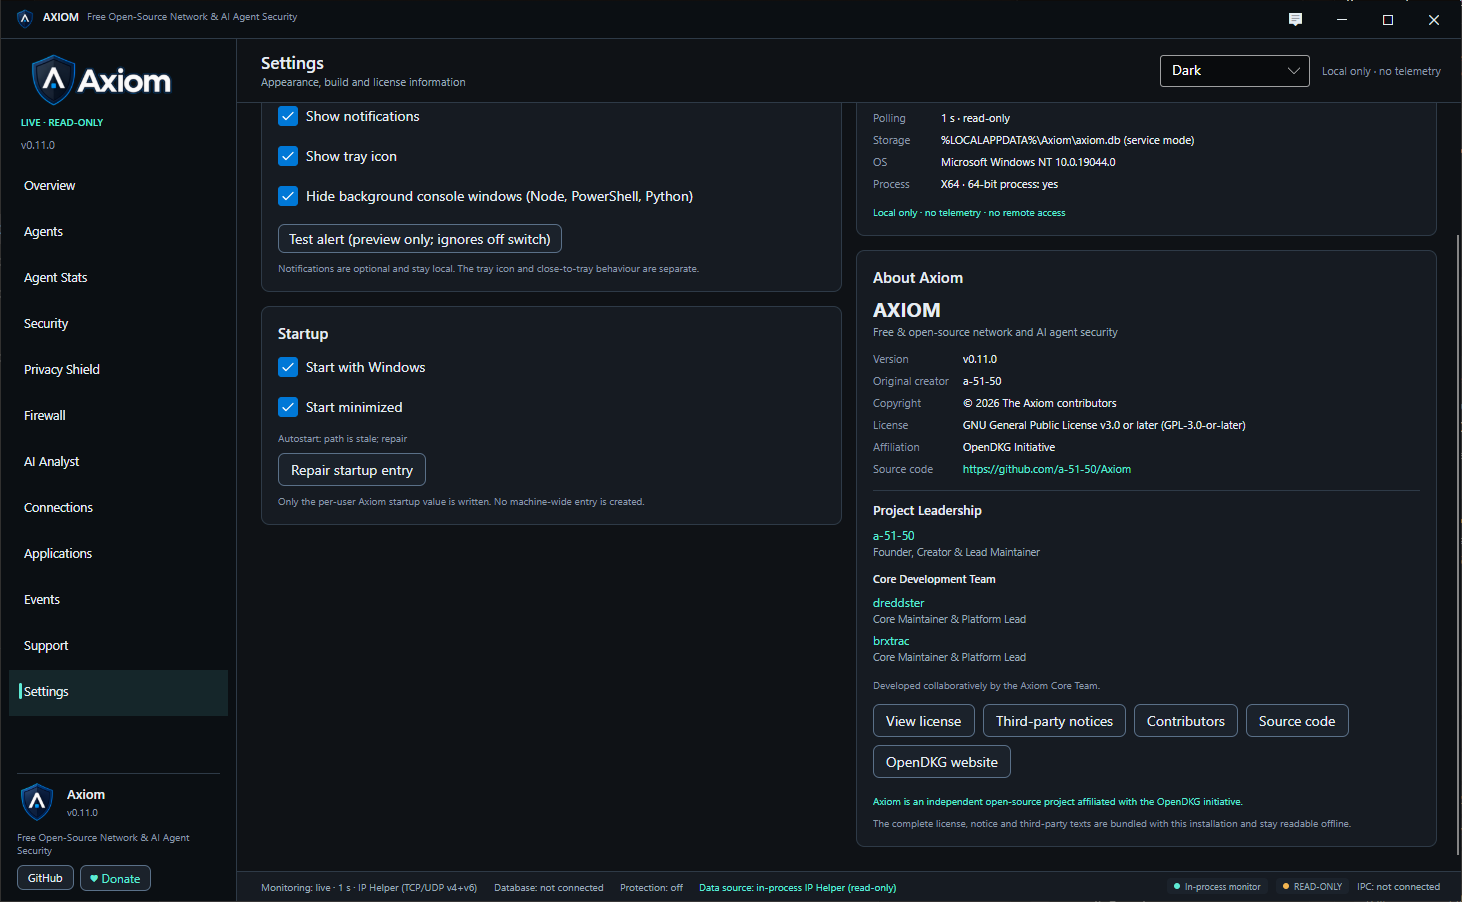
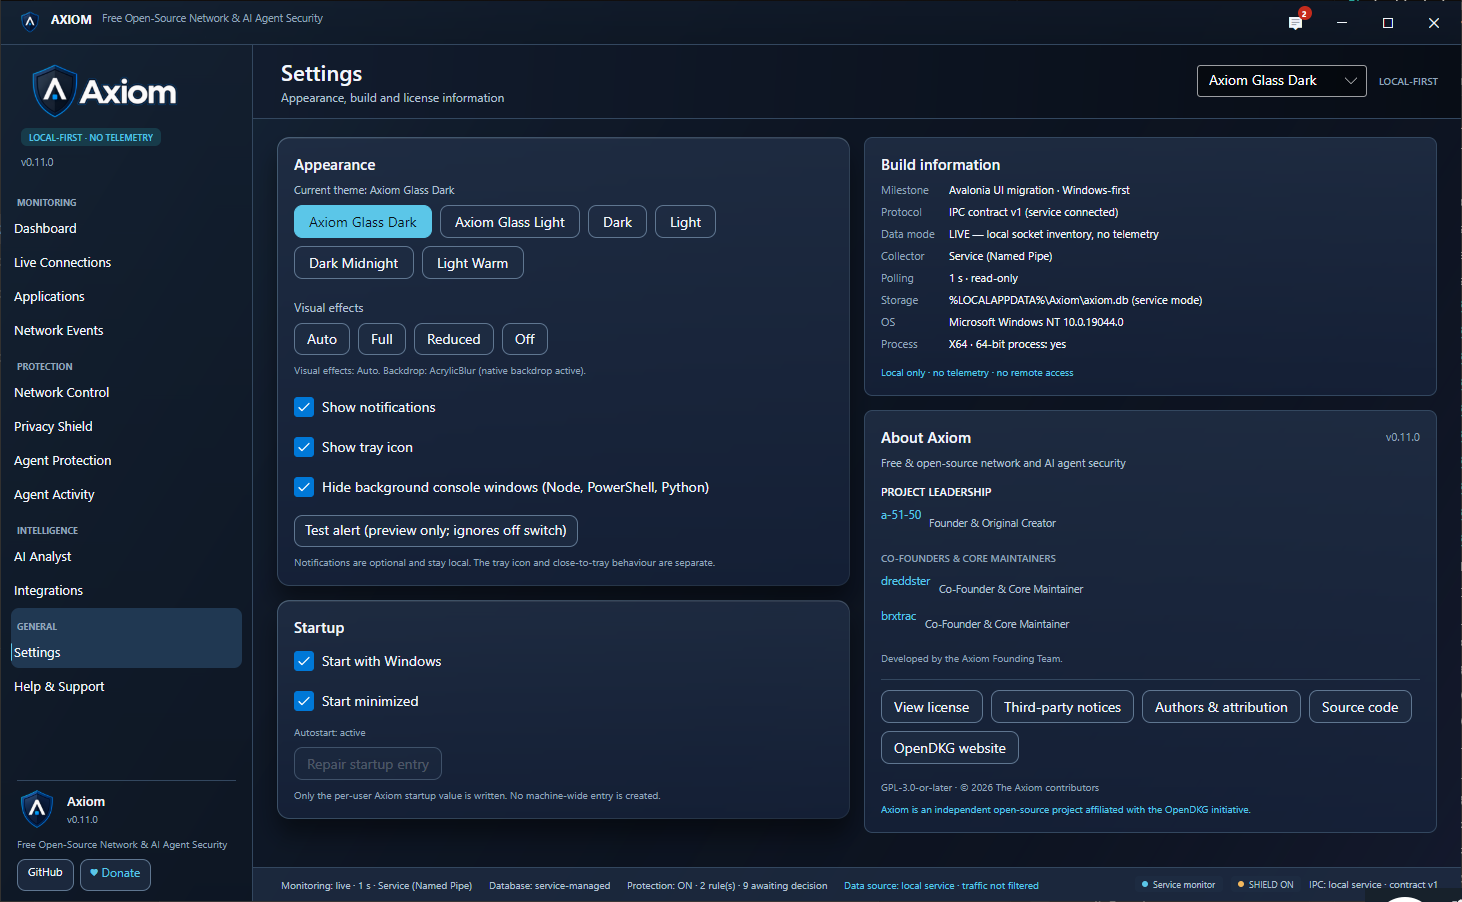
docs(project): Founder and Co-Founders leadership titles

diff --git a/src/Axiom.UI.Avalonia/AxiomDocuments.cs b/src/Axiom.UI.Avalonia/AxiomDocuments.cs
@@ -15,11 +15,11 @@ public static class AxiomDocuments
 {
     public const string SourceUrl = "https://github.com/a-51-50/Axiom";
 
-    public const string LeadMaintainerRole = "Founder, Creator & Lead Maintainer";
+    public const string LeadMaintainerRole = "Founder & Original Creator";
 
-    public const string CoreMaintainerRole = "Core Maintainer & Platform Lead";
+    public const string CoreMaintainerRole = "Co-Founder & Core Maintainer";
 
-    public const string CoreTeamStatement = "Developed collaboratively by the Axiom Core Team.";
+    public const string CoreTeamStatement = "Developed by the Axiom Founding Team.";
 
     public const string CopyrightNotice = "Copyright (C) 2026 The Axiom contributors";
 

diff --git a/AUTHORS.md b/AUTHORS.md
@@ -7,32 +7,37 @@ currently private during active development, and is licensed under **GPL-3.0-or-
 This file separates roles that are often confused. Git commit authorship is not treated as proof of
 copyright ownership, and nothing here transfers rights.
 
-## Original creator
+## Founder & Original Creator
 
 **a-51-50** - <https://github.com/a-51-50>
 
-Confirmed as the project's creator by the repository owner. The GitHub account is the public identity
-used here; no legal name, private e-mail address or other personal data is published.
+Creator and original developer of Axiom, including its initial Windows implementation. Confirmed as
+the project's founder and initiator by the repository owner. The GitHub account is the public
+identity used here; no legal name, private e-mail address or other personal data is published.
 
-## Core project team
+## Co-Founders & Core Maintainers
 
-- **a-51-50** - Founder, Creator & Lead Maintainer
-- **dreddster** - Core Maintainer & Platform Lead
-- **brxtrac** - Core Maintainer & Platform Lead
+**dreddster** - <https://github.com/dreddster>
 
-Core maintainership is a technical role: architecture, platform development, maintenance, testing and
-review within agreed areas. It does not establish copyright ownership, repository ownership or
-authority to transfer the project, and it does not change who created the original implementation.
+Recognized co-founder and core maintainer, contributing to Axiom's technical development and
+cross-platform expansion.
 
-Platform assignments are recorded only when they are formally confirmed. Until then, both platform
-leads share the generic Platform Lead role.
+**brxtrac** - <https://github.com/brxtrac>
+
+Recognized co-founder and core maintainer, contributing to Axiom's technical development and
+cross-platform expansion.
+
+Co-founder and core-maintainer titles are technical project roles. They do not assign copyright,
+trademarks, repository administration, revenue rights or legal ownership, and they do not change who
+created the original implementation. Platform-specific responsibilities are recorded only when they
+are formally agreed.
 
 ## Additional contributors
 
-Future community contributors are acknowledged through their actual contributions, commits and pull
-requests. No additional contributor is listed at this time; the core team is not repeated here merely
-to describe its primary roles. Listing a contributor does not imply shared ownership of the whole
-project, an original-creator role or a copyright claim.
+Community contributors and other individuals are credited according to their actual work and Git
+history. No additional contributor is listed at this time; the founding team is not repeated here
+merely to describe its primary roles. Listing a contributor does not imply shared ownership of the
+whole project, an original-creator role or a copyright claim.
 
 ## Copyright holders
 
@@ -41,17 +46,14 @@ Copyright (C) 2026 The Axiom contributors
 ```
 
 The collective notice is kept until the owner confirms an individual copyright holder and the exact
-wording to publish. Naming a creator or a maintainer does not by itself assign copyright.
+wording to publish. Naming a founder, co-founder or maintainer does not by itself assign copyright.
 
 ## Planned cross-platform work
 
-**dreddster** and **brxtrac** work on Linux and macOS development as core maintainers. This is a
-statement of collaboration, not an assertion that either port is included in a Windows release, nor
-an assignment of one platform to either maintainer. Actual contributions will be credited by their
-commits and pull requests.
-
-The original creator entry remains separate from later contributions. Author credit, copyright
-ownership and administrator access are distinct matters.
+The founding team is expanding Axiom across Windows, Linux and macOS. This is a statement of
+collaboration, not an assertion that either port is included in a Windows release, nor an assignment
+of one platform to a specific maintainer. Actual contributions are credited by their commits and
+pull requests.
 
 ## Project affiliation
 

diff --git a/README.md b/README.md
@@ -13,32 +13,39 @@
 > your only security control. Where possible, test firewall and DNS changes in a VM, keep backups
 > and keep a recovery path.
 
-## Project Leadership & Core Team
+## Project Leadership & Founding Team
 
-**Axiom** is an independent, community-oriented open-source network and AI-agent security project.
+**Axiom** is an independent, open-source network and AI-agent security project developed by its
+founding team.
 
-**Founder, Creator & Lead Maintainer**
+**Founder & Original Creator**
 
-- [@a-51-50](https://github.com/a-51-50) - original project creator, architecture and lead maintainership.
+[@a-51-50](https://github.com/a-51-50)
 
-**Core Maintainers & Platform Leads**
+Original project creator, initiator and developer of the initial Windows implementation.
 
-- [@dreddster](https://github.com/dreddster) - Core Maintainer & Platform Lead.
-- [@brxtrac](https://github.com/brxtrac) - Core Maintainer & Platform Lead.
+**Co-Founders & Core Maintainers**
 
-The Core Team collaborates on Axiom's development across Windows, Linux and macOS, with platform
-responsibilities documented as they are formally assigned.
+[@dreddster](https://github.com/dreddster)
 
-The canonical upstream repository remains [a-51-50/Axiom](https://github.com/a-51-50/Axiom).
+[@brxtrac](https://github.com/brxtrac)
 
-Axiom is affiliated with [OpenDKG](https://github.com/OpenDKG), but the affiliation does not transfer
-repository ownership or copyright.
+Members of Axiom's founding development team, contributing to its long-term technical direction,
+cross-platform development and maintenance. The team is expanding Axiom across Windows, Linux and
+macOS; platform-specific responsibilities and actual implementations are documented separately as
+development progresses.
 
-For detailed attribution and maintainership, see [AUTHORS.md](AUTHORS.md) and
-[Repository Stewardship](docs/REPOSITORY_STEWARDSHIP.md).
+**Canonical upstream:** [a-51-50/Axiom](https://github.com/a-51-50/Axiom)
+
+**Affiliation:** [OpenDKG](https://github.com/OpenDKG)
+
+Project leadership titles do not automatically transfer repository or intellectual-property
+ownership.
+
+See [AUTHORS.md](AUTHORS.md) and [Repository Stewardship](docs/REPOSITORY_STEWARDSHIP.md) for
+additional information.
 
 > These public credits do not replace any applicable signed founder or contributor agreements.
-
 ![Axiom Dashboard in Axiom Glass Dark: live sockets, system-wide throughput and local-only counters](docs/assets/screenshots/axiom-glass-dark-full.png)
 
 Axiom is a local-first Windows network monitor, firewall policy manager and optional AI-agent

diff --git a/docs/REPOSITORY_STEWARDSHIP.md b/docs/REPOSITORY_STEWARDSHIP.md
@@ -8,23 +8,22 @@ The original creator, [@a-51-50](https://github.com/a-51-50), is responsible for
 upstream's overall direction, the initial architecture and lead maintainership. This credit is
 permanent and is not changed by later contributions.
 
-## Core maintainers
+## Founding leadership
 
-**Core Maintainer & Platform Lead:** [@dreddster](https://github.com/dreddster),
-[@brxtrac](https://github.com/brxtrac).
+- [@a-51-50](https://github.com/a-51-50) - **Founder & Original Creator**.
+- [@dreddster](https://github.com/dreddster) - **Co-Founder & Core Maintainer**.
+- [@brxtrac](https://github.com/brxtrac) - **Co-Founder & Core Maintainer**.
 
-Core maintainers contribute to architecture, platform development, maintenance, testing and review
-within their agreed areas, and should have appropriate collaboration and review opportunities for
-their assigned work. Core maintainership is a technical role; it does not transfer repository
-ownership, copyright, trademarks, signing authority or legal rights.
+## Responsibility model
 
-## Platform responsibility
+The Founder & Original Creator is recognized for initiating the project and developing the original
+application. Co-Founders & Core Maintainers participate in ongoing development, architectural
+collaboration, maintenance, reviews and cross-platform expansion. Platform-specific
+responsibilities are recorded once explicitly agreed; this document does not invent a Linux or
+macOS lead assignment.
 
-Platform leads are the primary technical maintainers of their assigned platform implementations:
-platform-specific runtime integration, compatibility, testing, packaging and regression prevention.
-They coordinate shared Core and Avalonia changes rather than independently replacing shared
-implementations. Specific Linux and macOS assignments are recorded only when formally confirmed, so
-this document deliberately keeps the generic Platform Lead role.
+Founding titles are technical project roles. They do not assign copyright, trademarks, repository
+administration, revenue rights or legal ownership.
 
 ## Ownership boundaries
 
